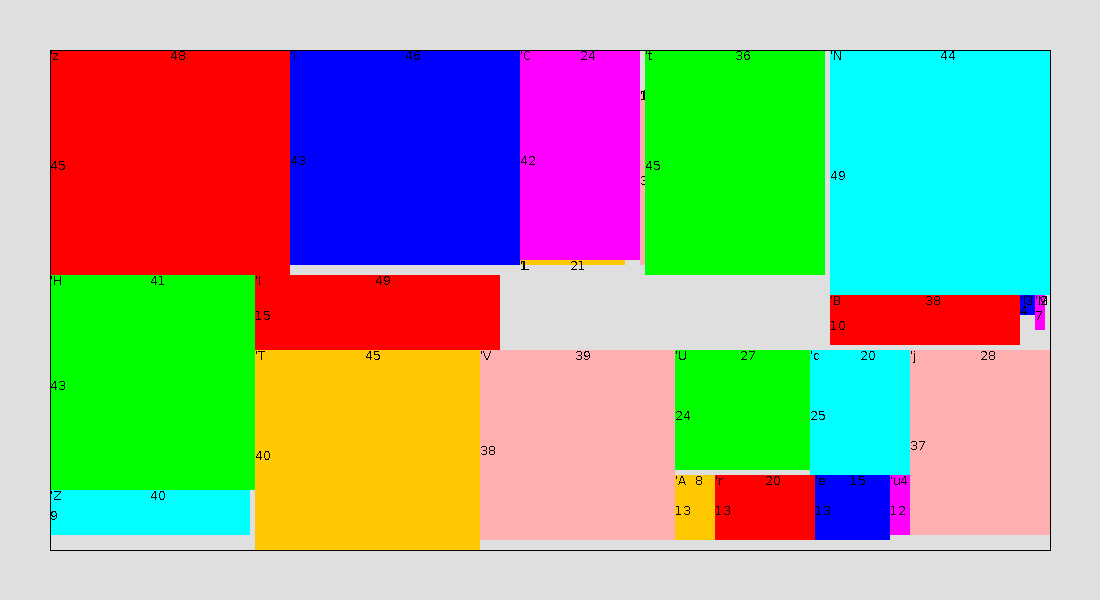
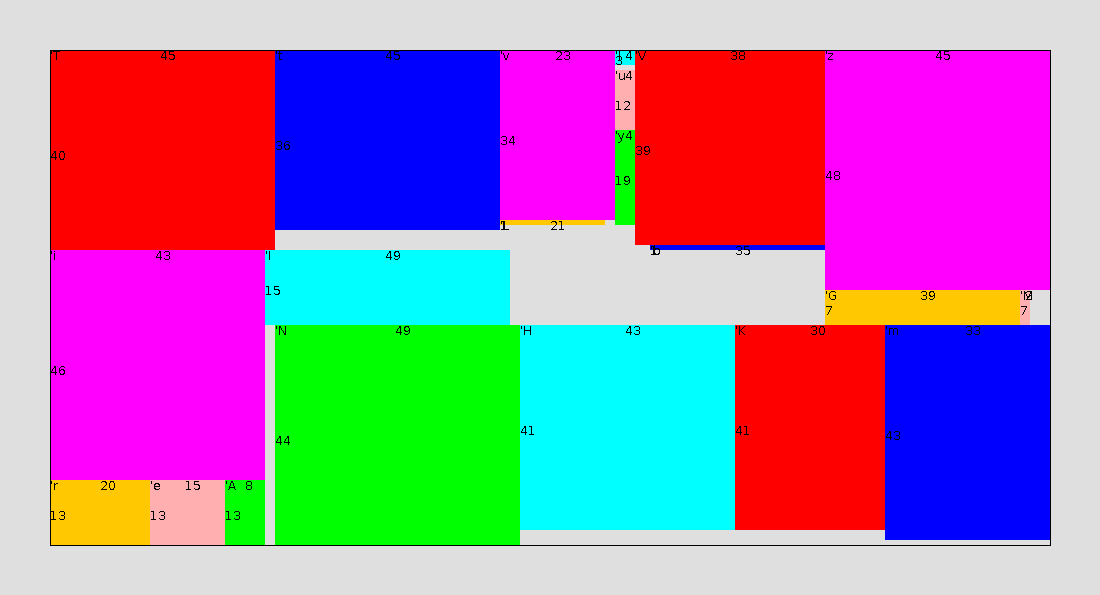
fix threshold for interim

diff --git a/README.md b/README.md
@@ -102,6 +102,6 @@ Linux 3.2.0-27-generic-pae #43-Ubuntu SMP Fri Jul 6 15:06:05 UTC 2012 i686 i686 
         res.get.show
         res.map(PLPFrame(_, 5))
 
-隙間の総面積は1685。(制限時間1分で打ち切り)
+隙間の総面積は1637。(制限時間1分で打ち切り)
 
-![Alt blank=1685 "z,i,C,L,b,t,N,B,l,M,T,V,U,c,r,e,u,A,j,H,Z,I"](https://raw.github.com/tono-nakae/package-loading-problem/master/Answer2.png)
+![Alt blank=1637 "T,t,v,L,u,y,l,V,b,z,G,M,N,H,K,m,i,r,e,A,I"](https://raw.github.com/tono-nakae/package-loading-problem/master/Answer2.png)
